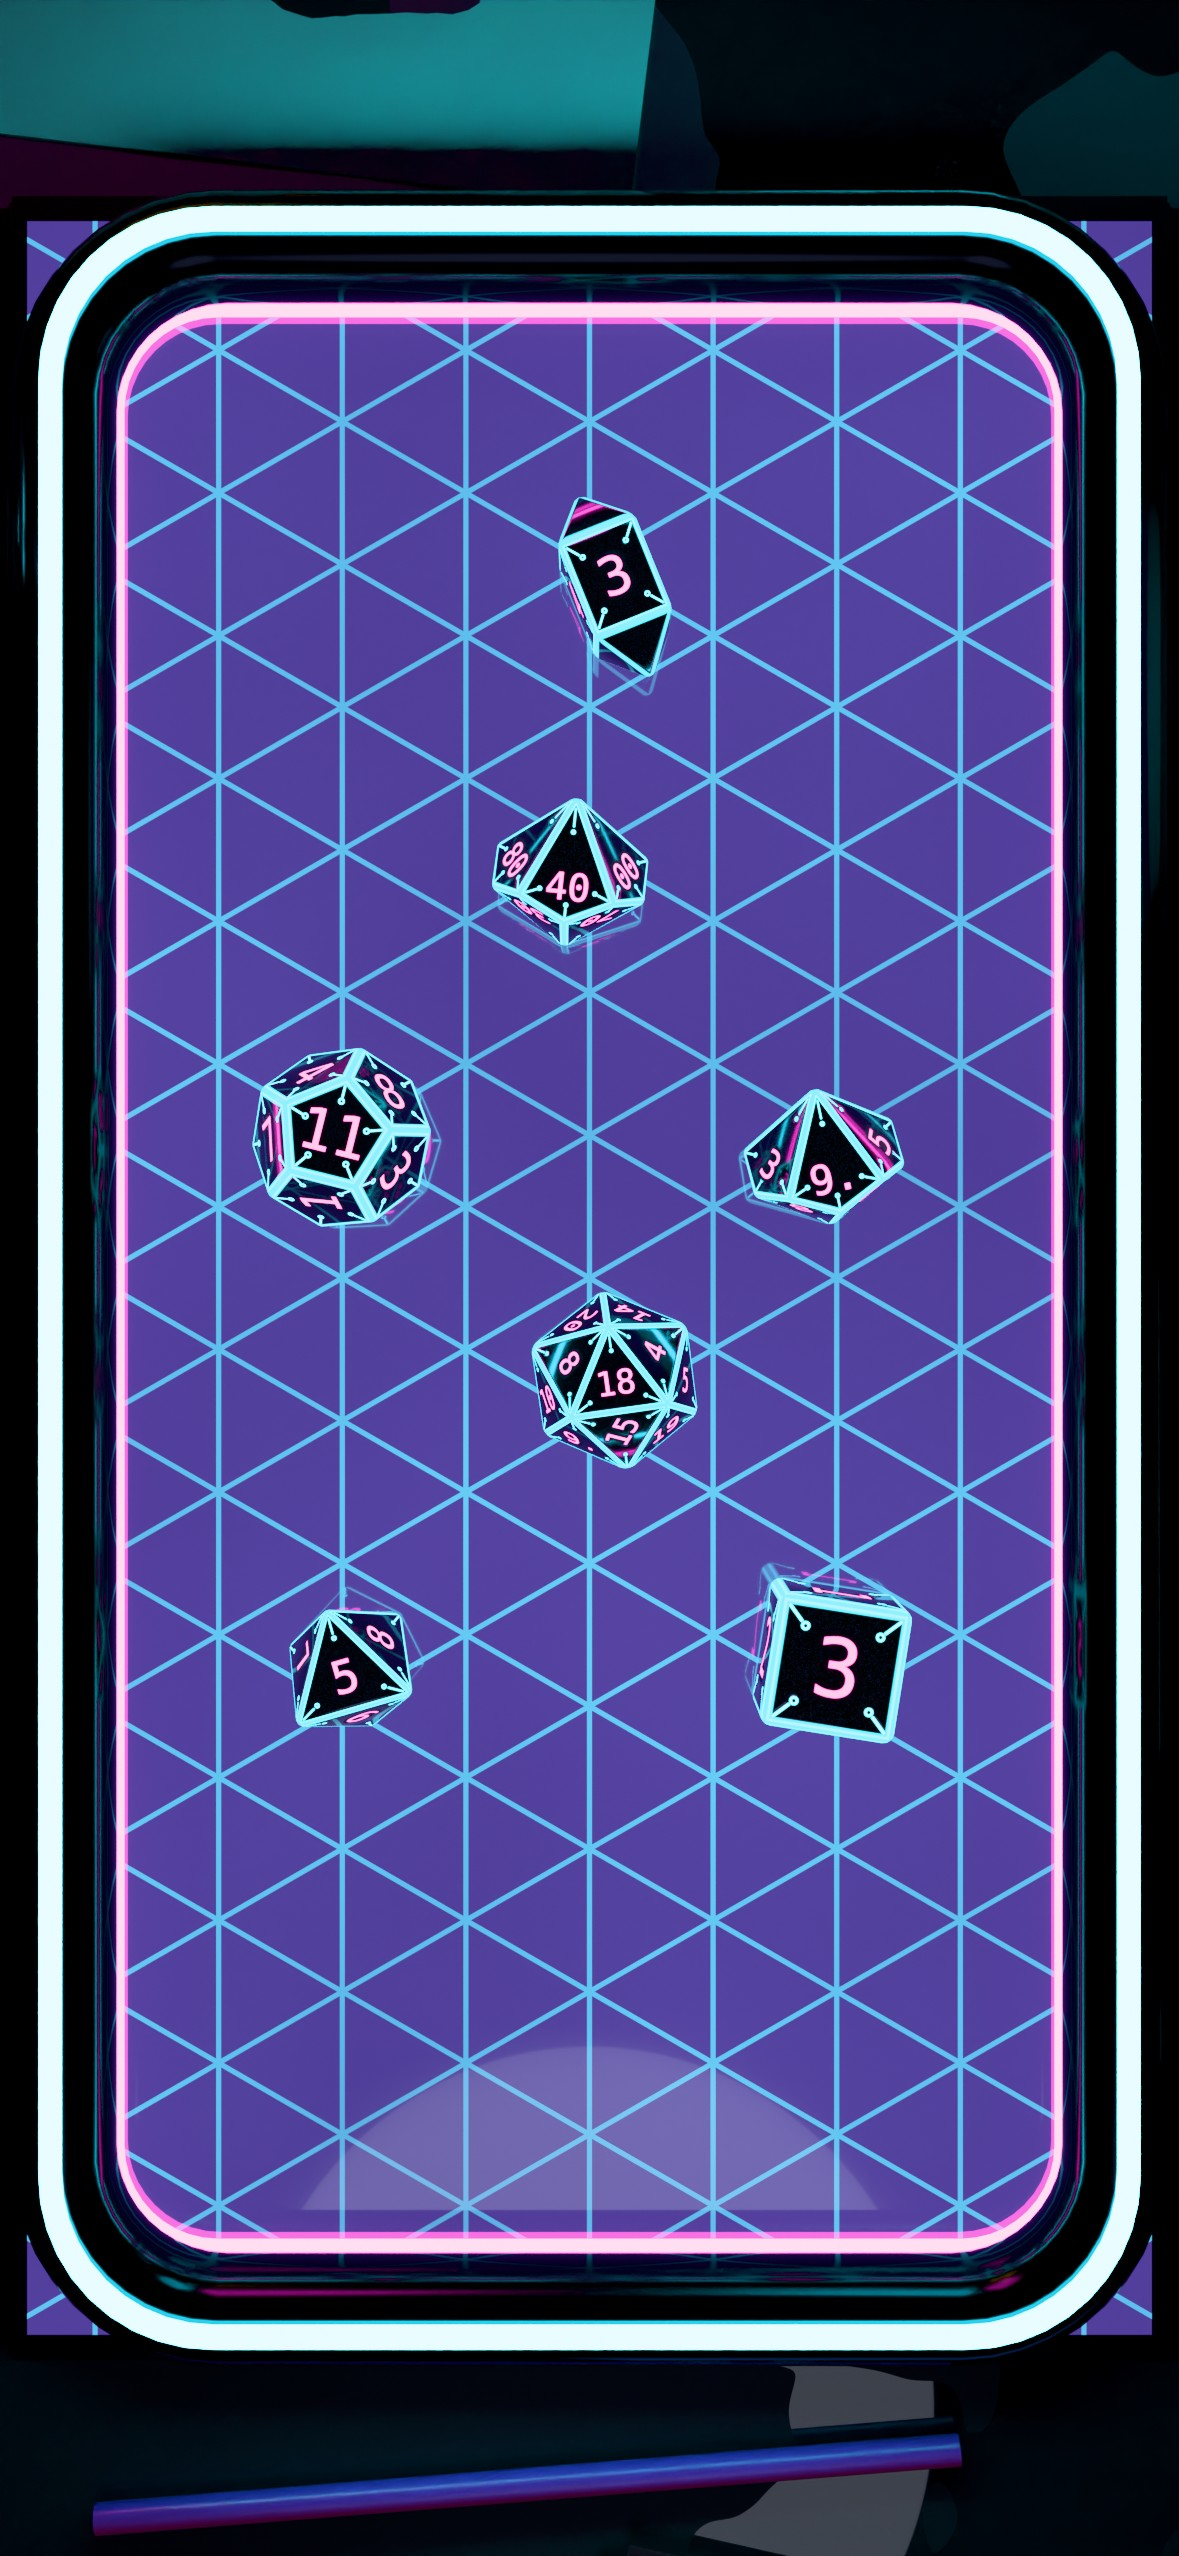
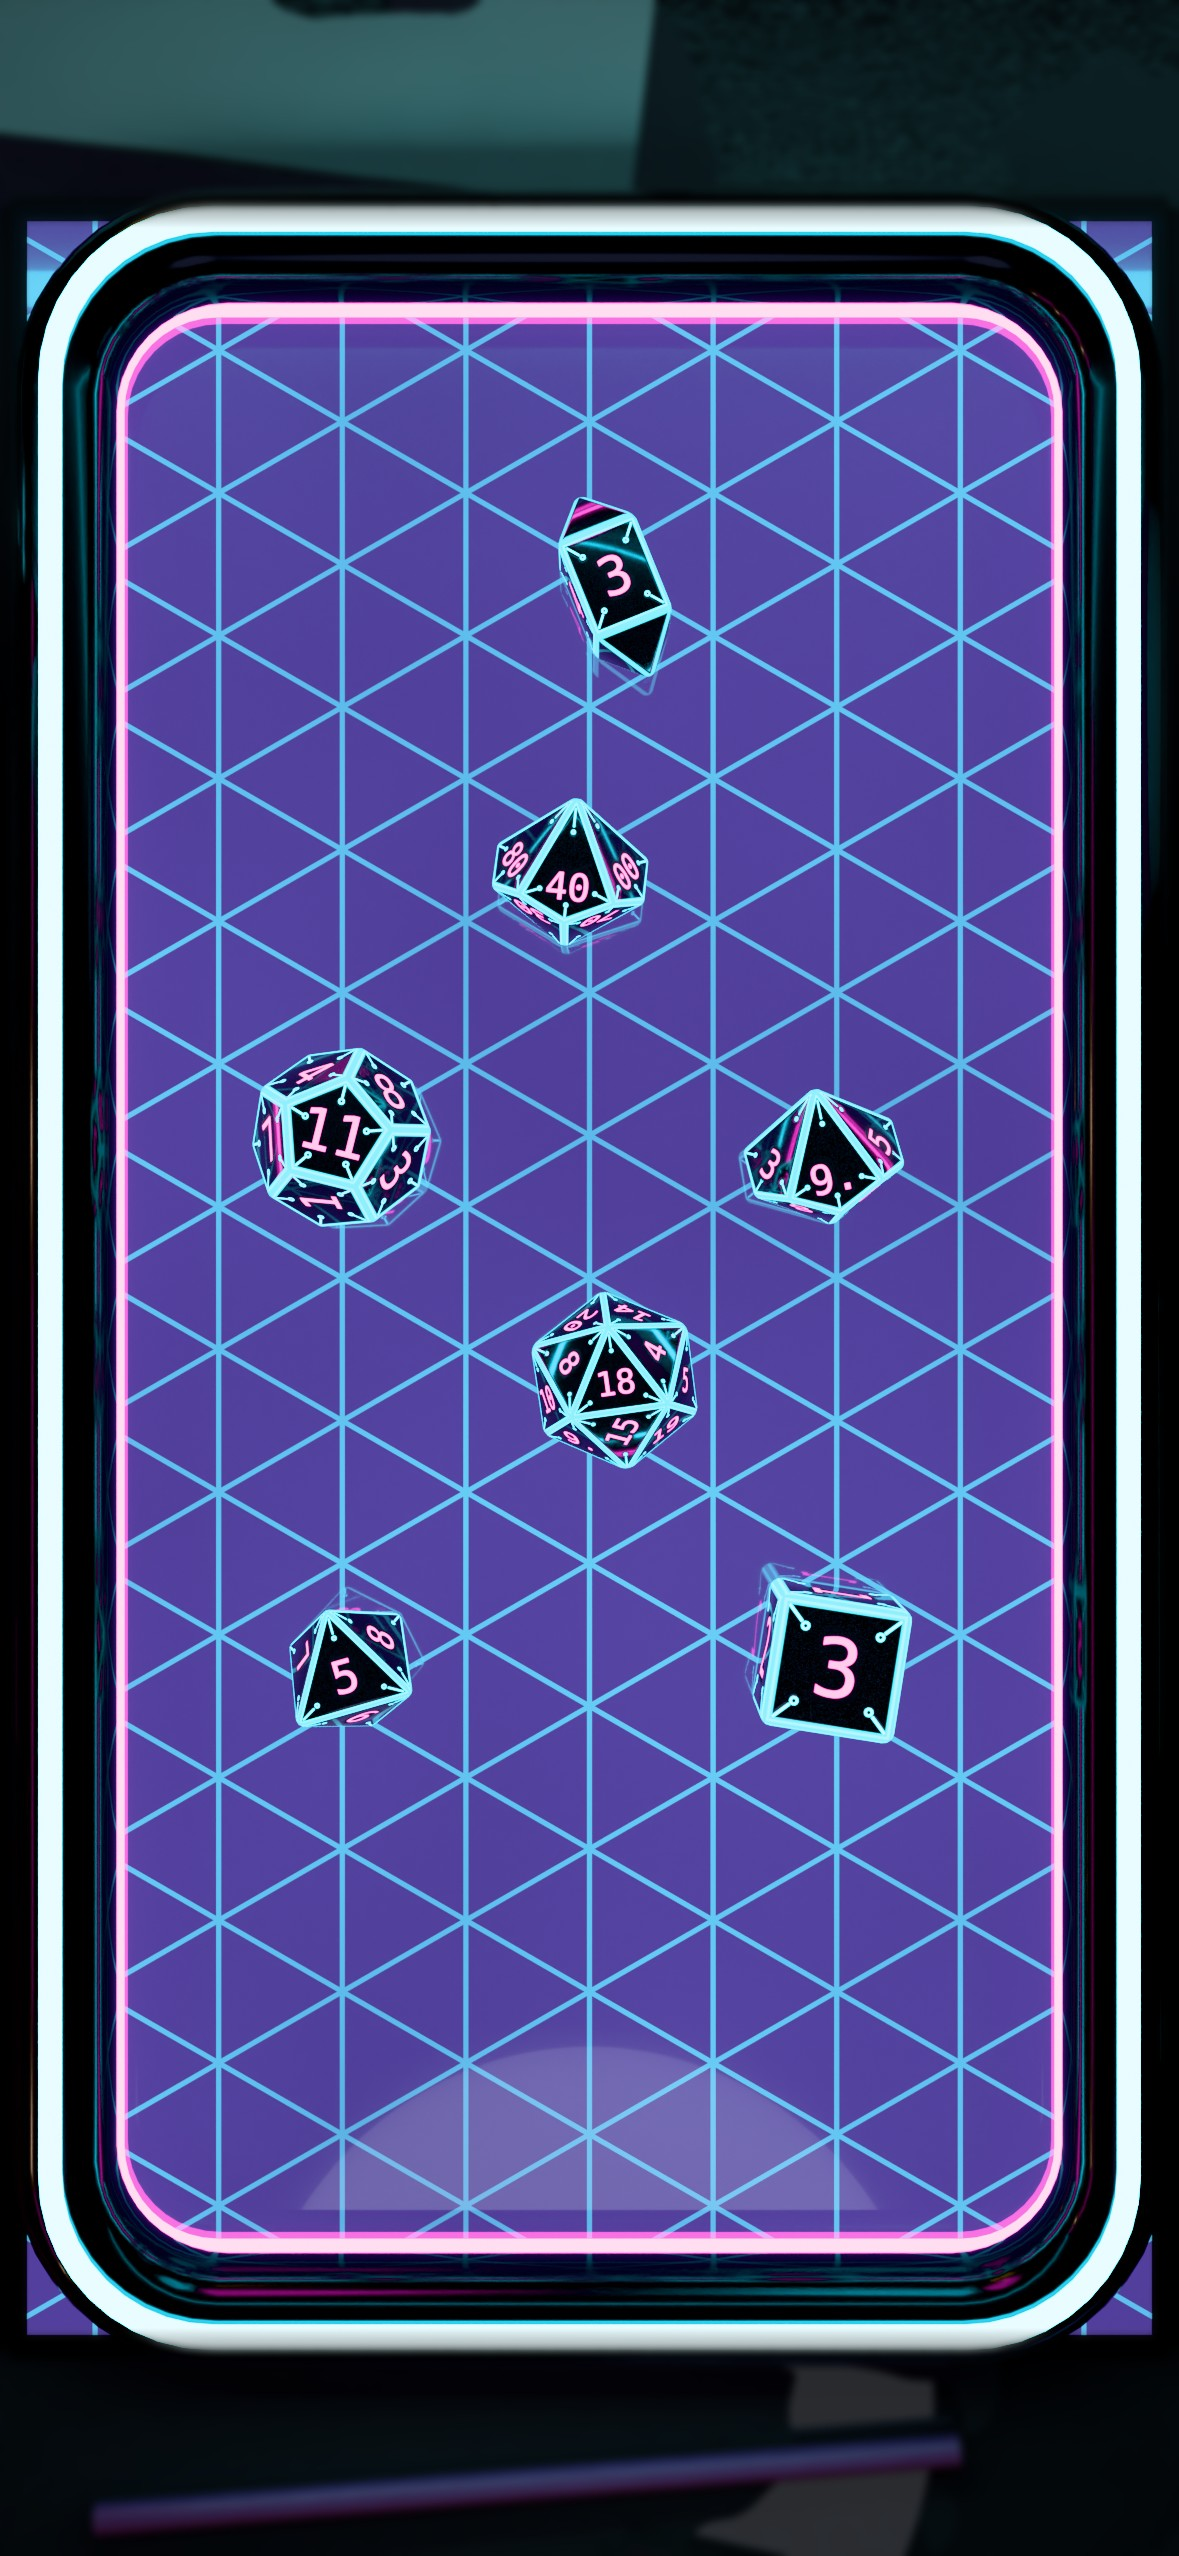
Game rooms: Voltline diner

diff --git a/dart3d/example/tool/dice_lookdev/build_env_voltline.py b/dart3d/example/tool/dice_lookdev/build_env_voltline.py
@@ -171,25 +171,25 @@ def room(scene, top, chrome):
     card.rotation_euler = (math.radians(90), math.radians(180), 0)
     # the bar on the left: counter, chrome edge, stools, back bar, pendants
     red = E.simple("Stool vinyl", (0.4, 0.02, 0.03), 0.3, Coat_Weight=0.6)
-    bar_top = E.simple("Bar top", (0.03, 0.03, 0.035), 0.1, Coat_Weight=1.0)
-    E.cube("bar", (60, 220, 100), (-150, -100, -55), panel, bevel=0.5)
-    E.cube("bar_top", (66, 224, 5), (-150, -100, -3), bar_top, bevel=0.8)
-    E.cube("bar_chrome", (2, 224, 6), (-117, -100, -8), chrome)
+    bar_top = E.simple("Bar top formica", (0.4, 0.5, 0.46), 0.35, Coat_Weight=0.6)
+    E.cube("bar", (60, 200, 100), (-125, -60, -55), panel, bevel=0.5)
+    E.cube("bar_top", (66, 204, 5), (-125, -60, -3), bar_top, bevel=0.8)
+    E.cube("bar_chrome", (2, 204, 6), (-92, -60, -8), chrome)
     for i in range(5):
-        y = -190 + i * 45
-        E.cylinder("stool_post", 2.5, 70, (-100, y, -70), chrome, segs=16)
-        E.cylinder("stool_seat", 17, 9, (-100, y, -32), red, segs=32, bevel=2.0)
-        E.cylinder("stool_foot", 16, 3, (-100, y, -103), chrome, segs=32)
+        y = -140 + i * 42
+        E.cylinder("stool_post", 2.5, 70, (-72, y, -70), chrome, segs=16)
+        E.cylinder("stool_seat", 17, 9, (-72, y, -32), red, segs=32, bevel=2.0)
+        E.cylinder("stool_foot", 16, 3, (-72, y, -103), chrome, segs=32)
     RC.wall_shelf("left", -100, -10 + 25, w=200, depth=18, seed=14, kind="bottles", mat=chrome,
                   palette=[(0.05, 0.2, 0.05), (0.3, 0.12, 0.02), (0.2, 0.2, 0.25), (0.25, 0.02, 0.05)])
     RC.wall_shelf("left", -100, 20 + 25, w=200, depth=18, seed=15, kind="bottles", mat=chrome,
                   palette=[(0.05, 0.2, 0.05), (0.3, 0.12, 0.02), (0.2, 0.2, 0.25), (0.25, 0.02, 0.05)])
-    for y in (-170, -100, -30):
-        RC.pendant_lamp(scene, -145, y, 55, energy=20000, color=(1.0, 0.72, 0.45), shade=(0.8, 0.8, 0.82), r=16,
+    for y in (-130, -60, 10):
+        RC.pendant_lamp(scene, -122, y, 55, energy=20000, color=(1.0, 0.72, 0.45), shade=(0.8, 0.8, 0.82), r=16,
                         spot_deg=100)
     RC.neon_bar(scene, (-190, -235, 100), (-190, wy - 5, 100), MAGENTA, strength=18.0, energy=15000)
     RC.neon_bar(scene, (-195, wy - 4, 96), (195, wy - 4, 96), CYAN, strength=14.0, energy=12000)
     # a booth bench behind the camera side on the right, with a table lamp glow
     E.cube("booth_seat", (60, 130, 45), (170, -130, -82), red, bevel=4)
     E.cube("booth_back", (15, 130, 70), (195, -130, -40), red, bevel=4)
-    return dict(loc=(22, -62, 34), target=(-24, 80, 4), lens=20, fstop=4.0, focus=(0, 0, 2))
+    return dict(loc=(45, -85, 62), target=(-45, 80, -12), lens=20, fstop=4.0, focus=(0, 0, 2))

diff --git a/docs/design/dice-lookdev.md b/docs/design/dice-lookdev.md
@@ -1147,6 +1147,18 @@ Lighting recipes (the tray lights are unchanged unless noted):
   and the units. Gate: numeral 7.46 (d10t), die vs tray 5.49, stroke
   0.124–0.132, PASS.
 
+- **Voltline — the late-night diner.** The rain window is the whole back
+  wall (the existing street neon outside: magenta and cyan, the back
+  light); a lit block of windows across the street; to the left a long
+  bar with a mint formica top and chrome edge, red vinyl stools, a back
+  bar of bottles and three chrome pendants over it (spot, 20 kW each,
+  warm, left); a magenta neon strip along the left ceiling edge (15 kW)
+  and a cyan one over the window (12 kW); checker floor, dark panelling,
+  a red booth. The tray keeps its cool front key. Room floor at −105 (bar
+  height). Camera: 20 mm from standing height so the bar reads over the
+  counter. Gate: numeral 12.35 (d4), die vs tray 4.66, stroke
+  0.124–0.132, PASS.
+
 ## 4. dart3d features to verify (before building these for real)
 
 1. **Emissive intensity > 1 + bloom threshold** on both platforms, and
